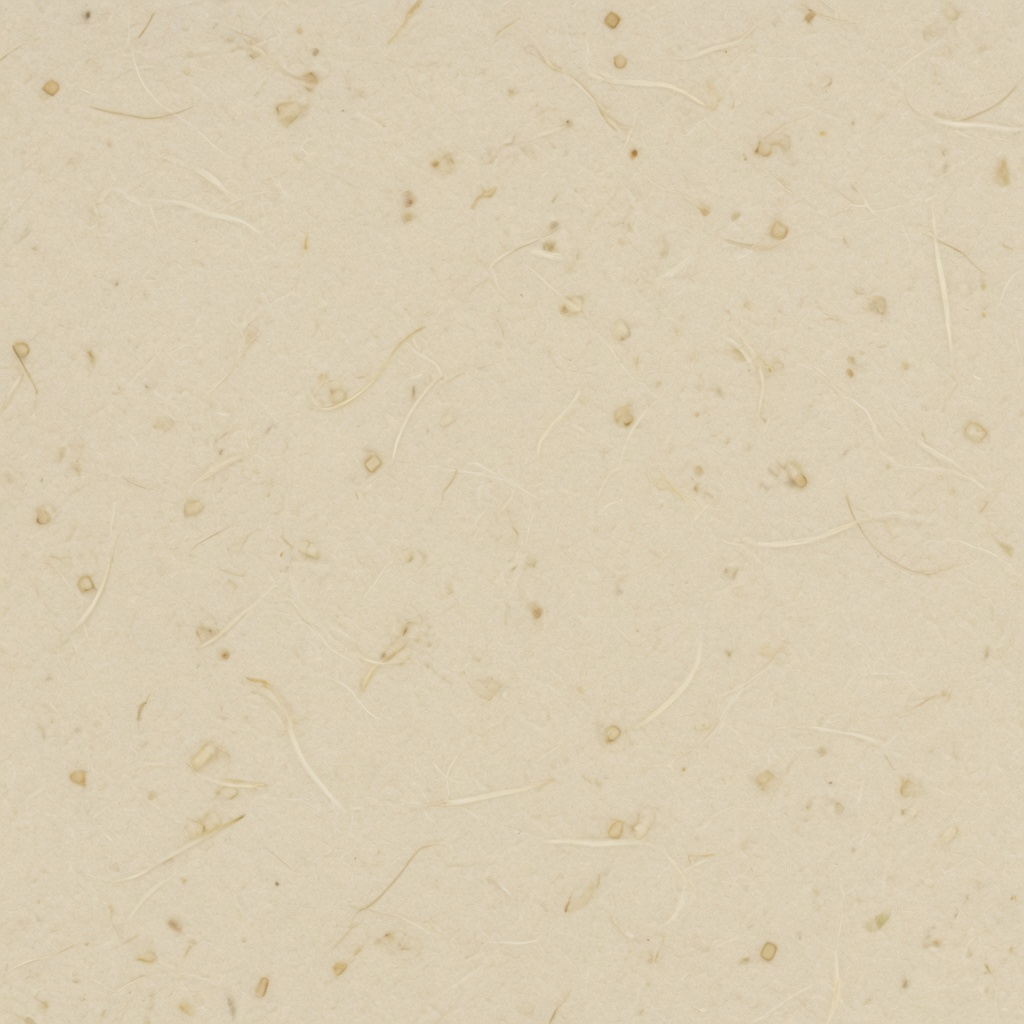
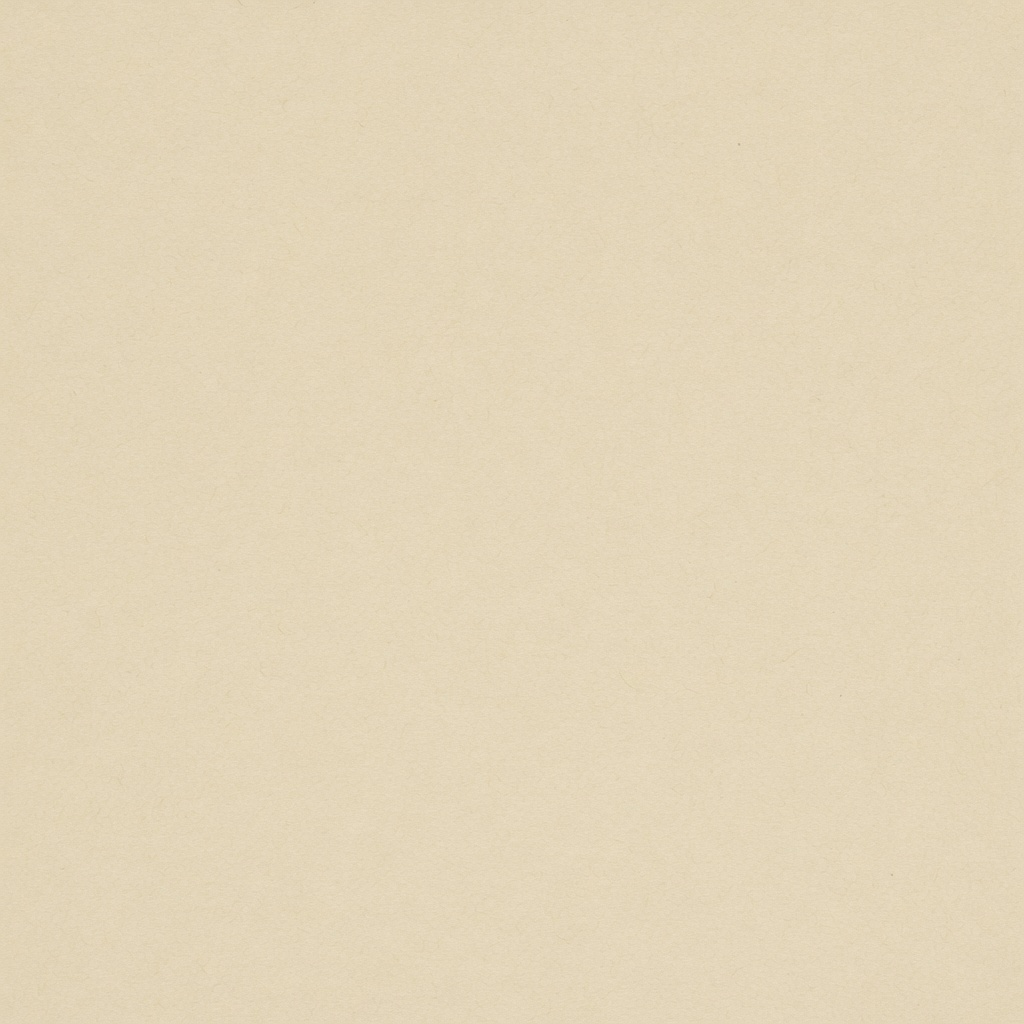
docs: use a finer, quieter paper grain
Replace the kraft tile (straw and seed flecks) with a delicate
archival wash, drop the stacked multiply layers, and let the fiber
sit at a whisper instead of wallpaper.

diff --git a/docs/stylesheets/extra.css b/docs/stylesheets/extra.css
@@ -1,9 +1,9 @@
 /* Li paper — docs, aligned with the landing page */
 
 :root {
-  --li-paper: #f3ead8;
-  --li-paper-deep: #e7d7b8;
-  --li-sheet: #f7f0e2;
+  --li-paper: #f5efe4;
+  --li-paper-deep: #ebe4d4;
+  --li-sheet: #faf6ed;
   --li-ink: #1a1612;
   --li-ink-soft: #3d352c;
   --li-muted: #6b6156;
@@ -47,10 +47,7 @@
 }
 
 .md-header {
-  background-color: var(--li-paper);
-  background-image: url("../assets/paper.jpg");
-  background-size: 520px;
-  background-blend-mode: multiply;
+  background-color: color-mix(in srgb, var(--li-paper) 88%, transparent);
   color: var(--li-ink);
   border-bottom: 1px solid var(--li-rule);
   box-shadow: none;
@@ -119,17 +116,11 @@
 @media screen and (max-width: 76.1875em) {
   .md-nav--primary .md-nav__title {
     background-color: var(--li-paper);
-    background-image: url("../assets/paper.jpg");
-    background-size: 520px;
-    background-blend-mode: multiply;
     color: var(--li-ink);
   }
 
   .md-nav--primary .md-nav__source {
     background-color: var(--li-sheet);
-    background-image: url("../assets/paper.jpg");
-    background-size: 520px;
-    background-blend-mode: multiply;
     color: var(--li-ink);
   }
 }
@@ -168,9 +159,9 @@ body {
   z-index: 0;
   pointer-events: none;
   background:
-    radial-gradient(ellipse 80% 46% at 6% 0%, color-mix(in srgb, var(--li-cinnabar) 7%, transparent), transparent 58%),
-    url("../assets/paper.jpg") center / 480px repeat;
-  opacity: 0.66;
+    radial-gradient(ellipse 80% 46% at 6% 0%, color-mix(in srgb, var(--li-cinnabar) 3.5%, transparent), transparent 58%),
+    url("../assets/paper.jpg") center / 860px repeat;
+  opacity: 0.28;
   mix-blend-mode: multiply;
 }
 
@@ -181,10 +172,9 @@ body {
   z-index: 0;
   pointer-events: none;
   background:
-    radial-gradient(ellipse 70% 55% at 100% 110%, color-mix(in srgb, var(--li-ink) 12%, transparent), transparent 58%),
-    radial-gradient(ellipse 40% 30% at 0% 100%, color-mix(in srgb, var(--li-cinnabar) 5%, transparent), transparent 60%),
-    url("../assets/paper.jpg") 40px 20px / 220px repeat;
-  opacity: 0.22;
+    radial-gradient(ellipse 70% 55% at 100% 110%, color-mix(in srgb, var(--li-ink) 5%, transparent), transparent 60%),
+    radial-gradient(ellipse 40% 30% at 0% 100%, color-mix(in srgb, var(--li-cinnabar) 2%, transparent), transparent 62%);
+  opacity: 0.4;
   mix-blend-mode: multiply;
 }
 
@@ -211,11 +201,7 @@ body {
 [data-md-color-scheme="default"] body,
 [data-md-color-scheme="default"] .md-container {
   background-color: var(--li-paper);
-  background-image:
-    radial-gradient(ellipse 80% 46% at 6% 0%, color-mix(in srgb, var(--li-cinnabar) 7%, transparent), transparent 58%),
-    url("../assets/paper.jpg");
-  background-size: auto, 480px;
-  background-blend-mode: normal, multiply;
+  background-image: none;
 }
 
 .md-content,
@@ -269,7 +255,7 @@ body {
   border-radius: 0;
   background-color: var(--li-sheet);
   background-image: url("../assets/paper.jpg");
-  background-size: 420px;
+  background-size: 780px;
   background-blend-mode: multiply;
   box-shadow: none;
   overflow: hidden;
@@ -423,19 +409,13 @@ body {
 }
 
 .md-footer {
-  background-color: var(--li-paper);
-  background-image: url("../assets/paper.jpg");
-  background-size: 520px;
-  background-blend-mode: multiply;
+  background-color: color-mix(in srgb, var(--li-paper) 90%, transparent);
   border-top: 1px solid var(--li-rule);
   color: var(--li-muted);
 }
 
 .md-footer-meta {
   background-color: var(--li-paper-deep);
-  background-image: url("../assets/paper.jpg");
-  background-size: 520px;
-  background-blend-mode: multiply;
 }
 
 .md-copyright,
@@ -588,8 +568,8 @@ body {
 [data-md-color-scheme="default"] .md-typeset details {
   background-color: var(--li-sheet);
   background-image: url("../assets/paper.jpg");
-  background-size: 420px;
-  background-blend-mode: multiply;
+  background-size: 780px;
+  background-blend-mode: soft-light;
 }
 
 @media screen and (max-width: 76.1875em) {
